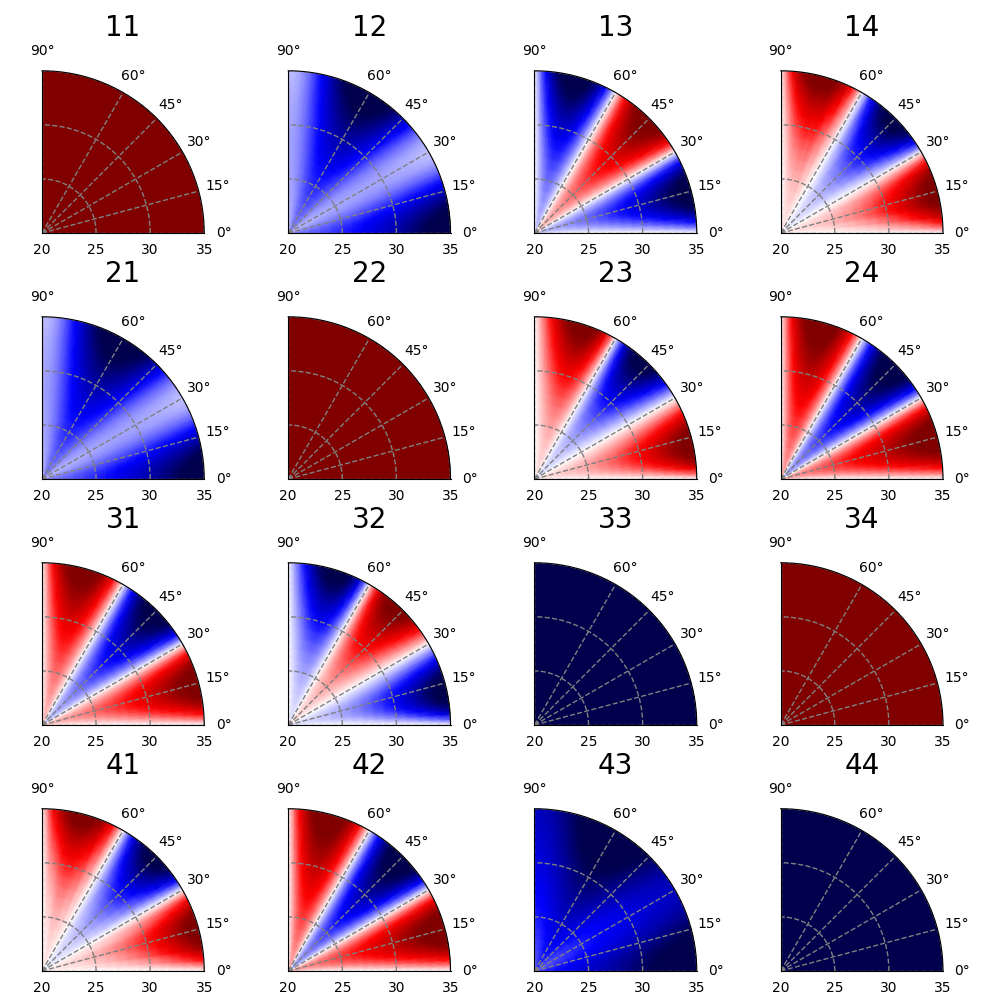
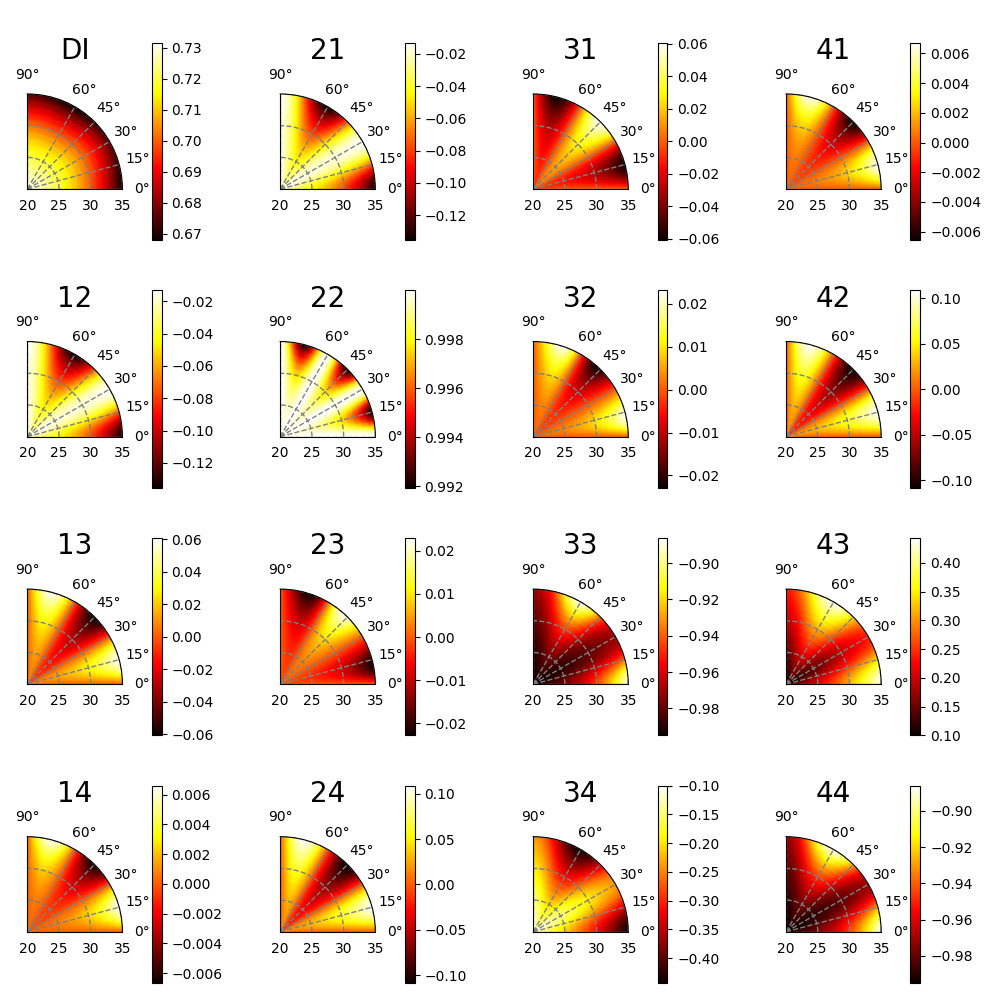
properly scaled polar plots

diff --git a/polarplot.py b/polarplot.py
@@ -28,7 +28,7 @@ def get_results(value, radius_range, txt):
     for j in range(len(radius)):
         for i in range(len(azimuth)): 
             z[j][i] = results[j][i][1]
-    z = z/abs(np.amin(z))
+    #z = z/abs(np.amax(abs(z)))
     return [X, Y, z] 
 
 def plot(X, Y, Z, DECOMP=False):
@@ -37,11 +37,13 @@ def plot(X, Y, Z, DECOMP=False):
     xTicks = [0,np.pi/12,np.pi/6,np.pi/4,np.pi/3,np.pi/2] 
 
     fig, axis = plt.subplots(4,4,figsize=(10,10),subplot_kw=dict(projection='polar'))
-    cm = plt.cm.seismic
+    cm = plt.cm.hot
     for j in range(4):
         for i in range(4):
             val = i*4+j
-            axis[i,j].pcolormesh(X[val],Y[val],Z[val],vmin=-0.8, vmax=0.8, shading='gouraud', antialiased=True, cmap = cm) 
+            Zmin = np.amin(Z[val])
+            Zmax = np.amax(Z[val])
+            cb = axis[i,j].pcolormesh(X[val],Y[val],Z[val],vmin=Zmin, vmax=Zmax, shading='gouraud', antialiased=True, cmap = cm) 
             axis[i,j].set_rticks(rTicks, fontsize=10) #AOI
             axis[i,j].set_xticks(xTicks, fontsize=10)
             axis[i,j].set_rlim(rTicks[0], rTicks[-1])
@@ -50,9 +52,11 @@ def plot(X, Y, Z, DECOMP=False):
             title = str(j+1) + str(i+1)
             if DECOMP and (i == 0 and j == 0):
                 title = "DI"
+            fig.colorbar(cb,ax=axis[i,j],pad=0.2)
+
             axis[i,j].set_title(title,fontsize=20)
-    plt.tight_layout(h_pad=1)
-    #plt.savefig('constant_wvl_210.png')
+    plt.tight_layout(h_pad=1,w_pad=3)
+    plt.savefig('constant_wvl_210.png')
     plt.show()
 
 if __name__ == '__main__':

diff --git a/properpolar.py b/properpolar.py
@@ -256,7 +256,8 @@ def convert(radius, azimuth, results, mm):
     for j in range(len(radius)):
         for i in range(len(azimuth)): 
             z[j][i] = results[j][mm][i]
-    z = z/abs(np.amin(z))
+    #z = z/abs(np.amax(abs(z)))
+
     #z = z/0.1
 
     return [X, Y, z] 
@@ -292,4 +293,5 @@ if __name__ == "__main__":
         for r in range(3):
             plot_results[r].append(data[r])
     plot(plot_results[0],plot_results[1],plot_results[2], DECOMP=True)
+
 
